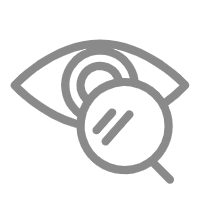
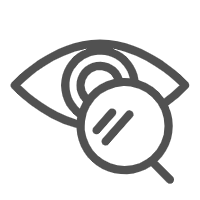
导航栏图标不透明

Changed region(s): [[0.03, 0.18, 0.96, 0.93]]

diff --git a/miniprogram/components/demo-tabbar/index.js b/miniprogram/components/demo-tabbar/index.js
@@ -2,17 +2,17 @@ Component({
   data: {
     active: 1,
     icon: [{
-      inactive: 'https://wx2.sinaimg.cn/mw690/006D4XS4gy1gesflc4yqtj305k05kwed.jpg',
-      active: 'https://wx1.sinaimg.cn/mw690/006D4XS4gy1gesflc1sb9j305k05ka9y.jpg'
+      inactive: 'http://pic.yupoo.com/253673/db990bbf/c6b97c13.png',
+      active: 'http://pic.yupoo.com/253673/70a2c46b/03eb75b0.png'
     }, {
-        inactive: 'https://wx3.sinaimg.cn/mw690/006D4XS4gy1gesf79fcb2j305k05kdfu.jpg',
-        active: 'https://wx1.sinaimg.cn/mw690/006D4XS4gy1gesf7wxppuj305k05k74b.jpg'
+        inactive: 'http://pic.yupoo.com/253673/9d264693/dbb2b6e3.png',
+        active: 'http://pic.yupoo.com/253673/3ed5e101/13259079.png'
       }, {
-        inactive: 'https://wx2.sinaimg.cn/mw690/006D4XS4gy1gesfl98as5j305l05kmx7.jpg',
-        active: 'https://wx4.sinaimg.cn/mw690/006D4XS4gy1gesfl8wlv6j305l05kt8s.jpg'
+        inactive: 'http://pic.yupoo.com/253673/2708e419/75a83e9c.png',
+        active: 'http://pic.yupoo.com/253673/62e13938/9fc95b5f.png'
       }, {
-        inactive: 'https://wx1.sinaimg.cn/mw690/006D4XS4gy1gesflbhq61j305k05kglg.jpg',
-        active: 'https://wx3.sinaimg.cn/mw690/006D4XS4gy1gesflboe22j305k05kq2s.jpg'
+        inactive: 'http://pic.yupoo.com/253673/cbd62833/39f91498.png',
+        active: 'http://pic.yupoo.com/253673/9608e3fe/4fa0927b.png'
       }]
   },
   options: {
